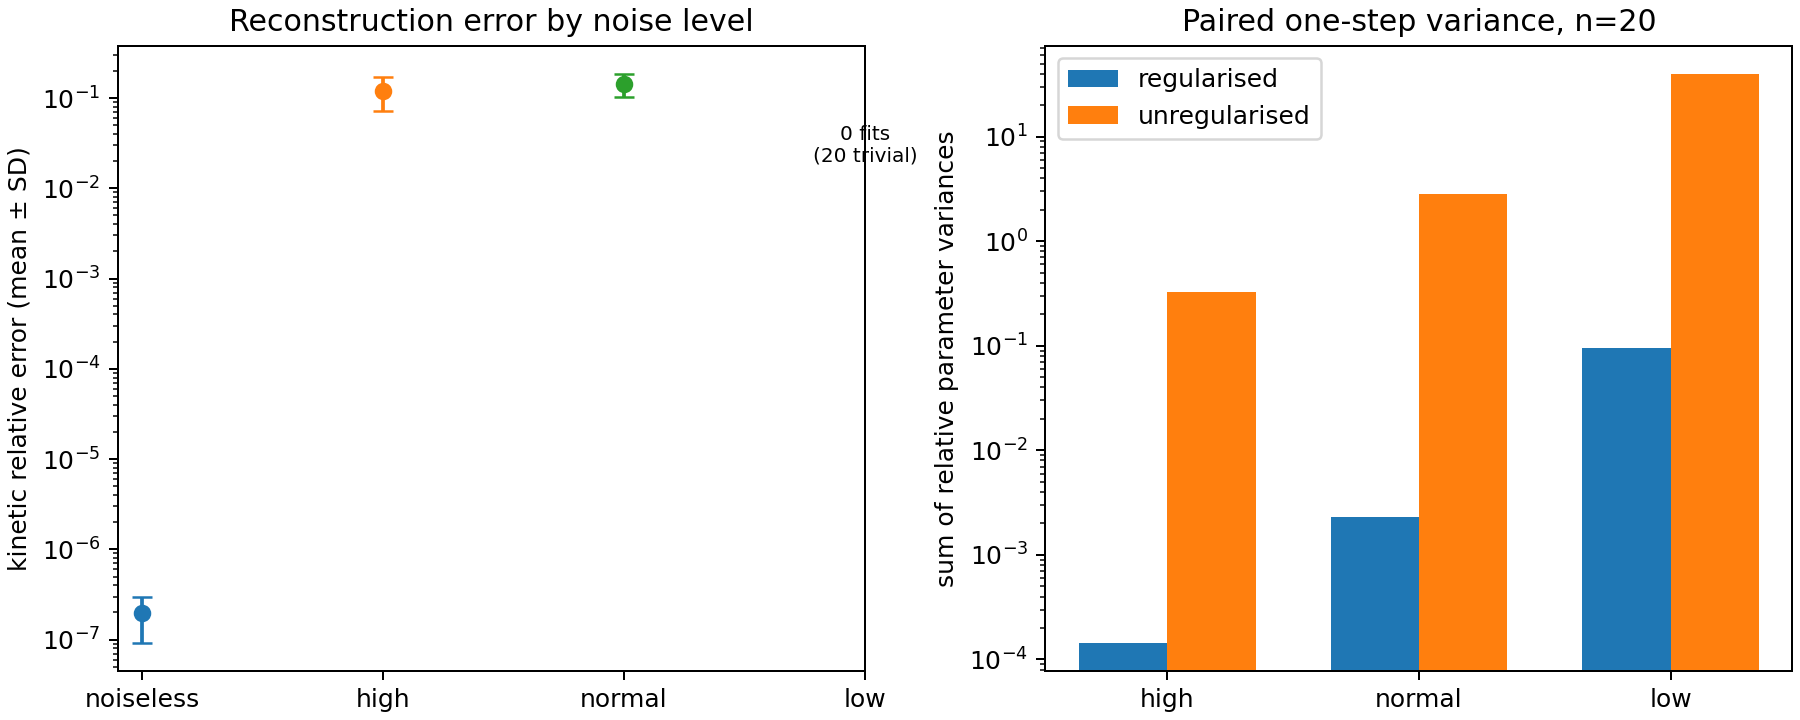
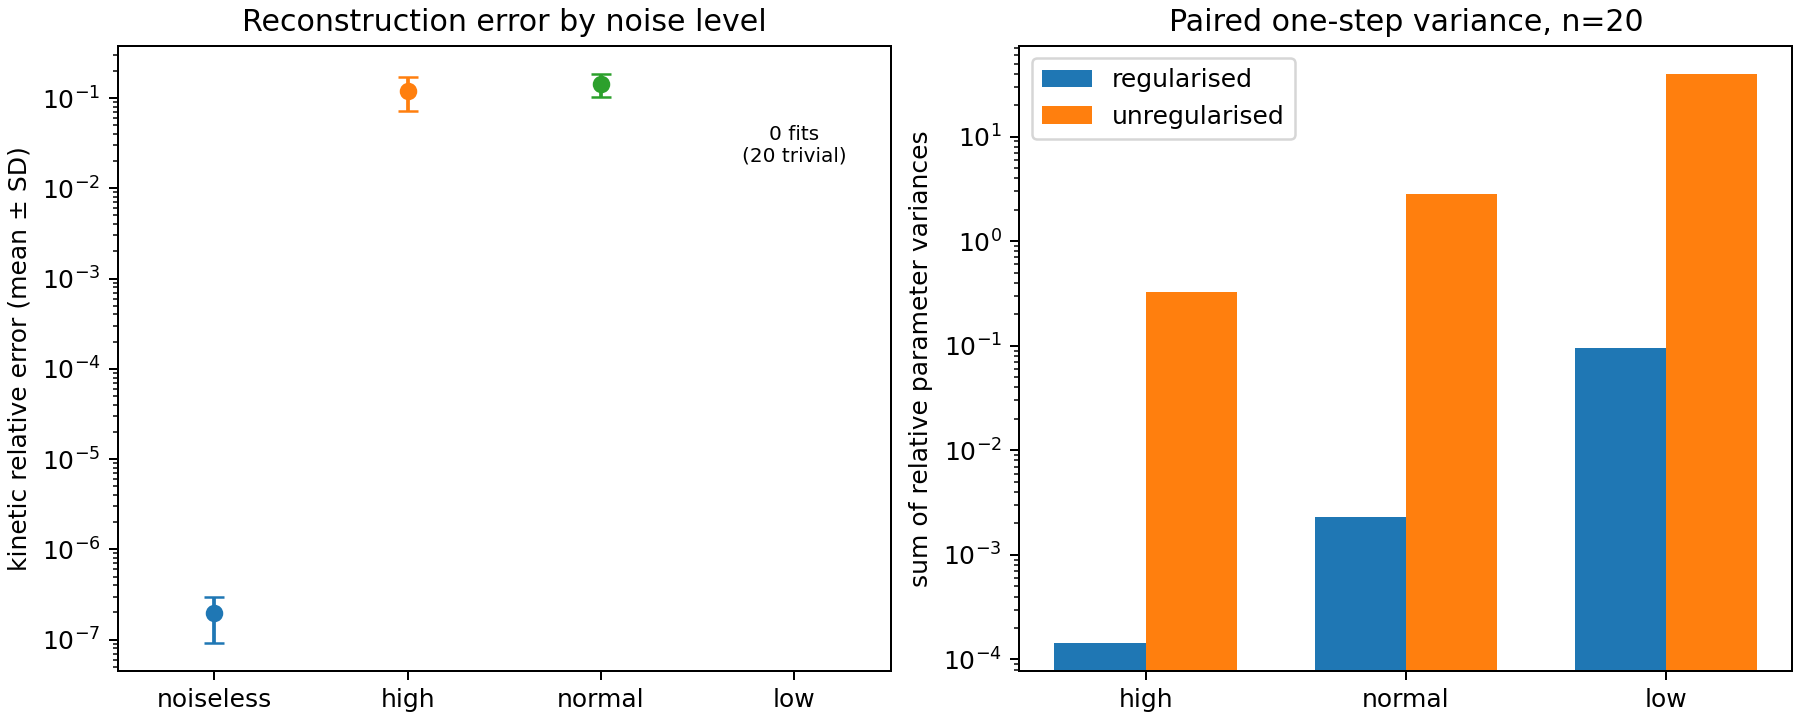
Update README and consistency plot

diff --git a/experiments/m4_consistency_regularization.py b/experiments/m4_consistency_regularization.py
@@ -160,8 +160,9 @@ def plot(cons: dict, var: dict) -> Path:
         if s["n_accepted"]:
             axes[0].errorbar(i, s["error_mean"], yerr=s["error_std"], fmt="o", capsize=4)
         else:
-            axes[0].text(i, 0.03, "0 fits\n(20 trivial)", ha="center", va="center", fontsize=8)
+            axes[0].text(i, 0.03, f"0 fits\n({s['n_trivial']} trivial)", ha="center", va="center", fontsize=8)
     axes[0].set_xticks(range(4), labels)
+    axes[0].set_xlim(-0.5, len(labels) - 0.5)
     axes[0].set_yscale("log")
     axes[0].set_ylabel("kinetic relative error (mean ± SD)")
     axes[0].set_title("Reconstruction error by noise level")

diff --git a/README.md b/README.md
@@ -59,7 +59,8 @@ against. `tests/test_no_library_solvers.py` enforces this automatically.
   regions and all 25 frame times.
 - **Inverse problem (noise-free):** the IRGNM recovers all 23 parameters to a median
   relative error of about `4.3e-7` from starts 10% away from the truth. From worse starts
-  some runs diverge (20/20 converge at 10%, 17/20 at 20%, 15/20 at 30%, 12/20 at 40%).
+  some runs diverge (20/20 converge at 10%, 17/20 at 20%, 15/20 at 30%, and 11 or 12 of
+  20 at 40%, depending on the machine).
 - **Identifiability:** without blood samples, `K1` and the blood-curve scale cannot be
   separated (the null-space direction the paper predicts). One arterial sample removes
   this ambiguity.
